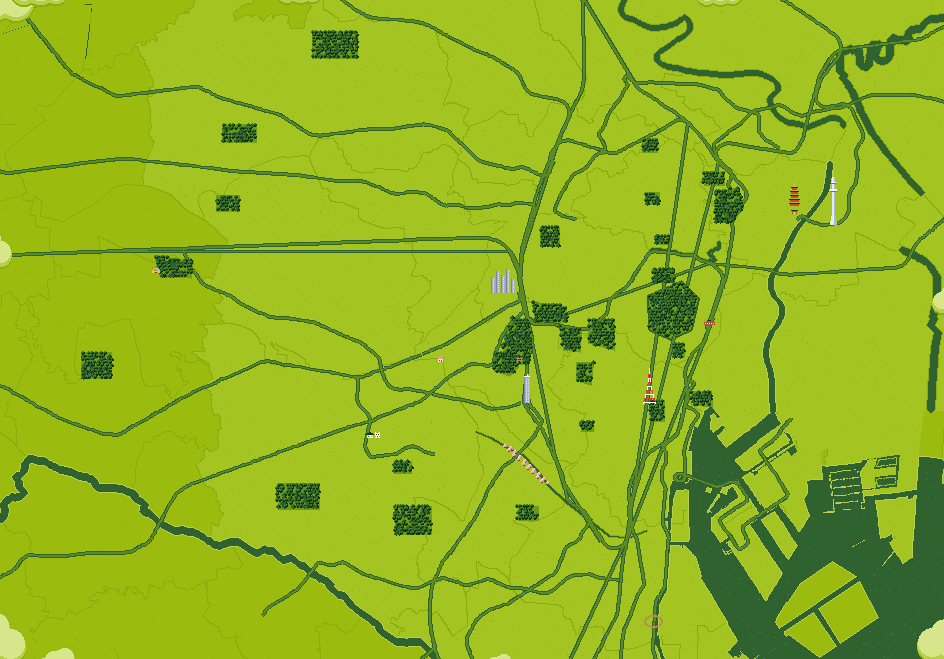
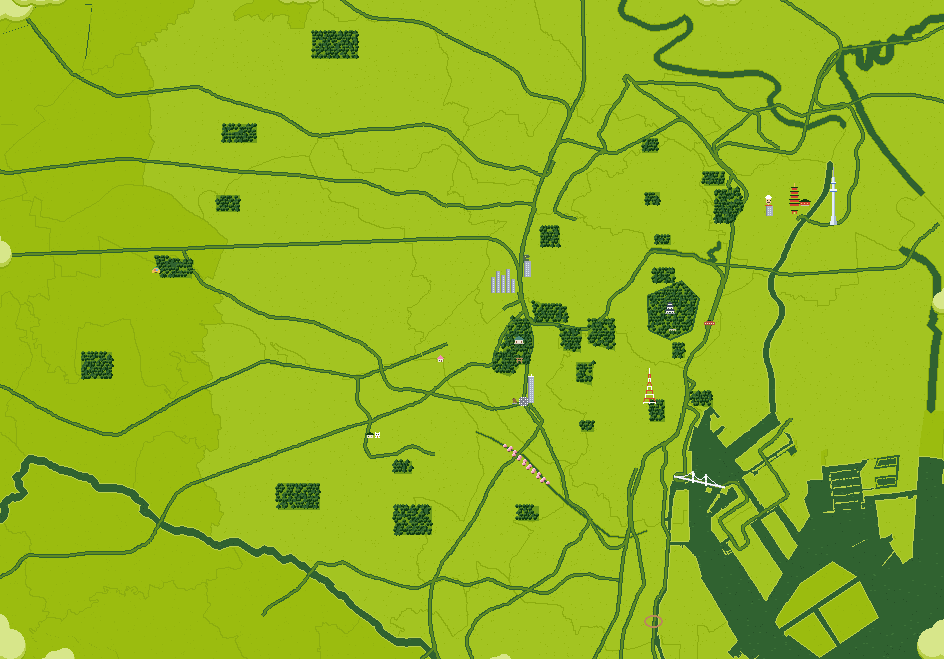
Sencha map palette (default), 8 new landmarks with zoom labels, drop fake rail connectors
Claude-Session: https://claude.ai/code/session_01MK7FJAyZNpgfsYBMr7Fsg7

diff --git a/index.html b/index.html
@@ -55,6 +55,7 @@ button{font:inherit;color:inherit;background:none;border:0;padding:0;cursor:poin
 #lbl,#pins{position:absolute;inset:0;pointer-events:none}
 .lb{position:absolute;font-size:10px;letter-spacing:1px;color:var(--fg);background:rgba(27,32,51,.72);padding:1px 4px;white-space:nowrap;transform:translate(-50%,5px)}
 .lb.mj{font-size:11px;background:rgba(27,32,51,.85)}
+.lb.lm{transform:translate(-50%,calc(-100% - 6px));color:var(--gold);background:rgba(27,32,51,.8)}.lb.lm::after{top:auto;bottom:-5px;background:var(--gold)}
 .lb::after{content:'';position:absolute;left:50%;top:-5px;width:3px;height:3px;margin-left:-1px;background:var(--fg)}
 .pin{position:absolute;left:0;top:0;width:21px;height:24px;margin:-24px 0 0 -10px;transition:none}
 .pin svg{display:block}
@@ -189,11 +190,12 @@ const CATS={coffee:{n:'coffee & tea',c:'#C08A5F',k:'珈琲'},eat:{n:'ramen & foo
   shops:{n:'shops',c:'#8FA3FF',k:'店'},shrines:{n:'shrines & temples',c:'#F3EBDD',k:'社'},sights:{n:'sights & parks',c:'#B5E06A',k:'景'}};
 SPOTS.forEach(p=>{if(p.c==='gardens')p.c='sights'});
 const LABELS=[['shinjuku',139.70038,35.69018,1],['shibuya',139.70149,35.65796,1],['ikebukuro',139.71094,35.7299,1],['ueno',139.77676,35.71351,1],['tokyo stn',139.76704,35.6813,1],['asakusa',139.797774,35.710746,1],['kichijoji',139.57984,35.70295,1],['shimokitazawa',139.66657,35.6616,1],['nakameguro',139.699116,35.64431,1],['ginza',139.765366,35.6715,1],['akihabara',139.77288,35.69824,1],['koenji',139.64955,35.70518,1],
- ['harajuku',139.70261,35.67129],['ebisu',139.70983,35.64658],['daikanyama',139.703084,35.648043],['jiyugaoka',139.668532,35.60735],['sangenjaya',139.669257,35.644148],['nishi-ogikubo',139.59928,35.70351],['nakano',139.66594,35.70573],['yoyogi-uehara',139.67968,35.66906],['hatagaya',139.6768293,35.6772317],['omotesando',139.712473,35.665042],['akasaka',139.736413,35.672104],['yotsuya',139.73038,35.6849],['ochanomizu',139.7651,35.69935],['jimbocho',139.75756,35.696021],['kuramae',139.790858,35.703128],['kiyosumi-shirakawa',139.799841,35.682119],['monzen-nakacho',139.796099,35.671892],['gotokuji',139.64735,35.65374],['mitaka',139.56067,35.70268],['nezu',139.76575,35.717325],['yanaka',139.7660,35.7262],['komagome',139.74788,35.73684],['oizumi-gakuen',139.58655,35.74952],['ningyocho',139.782339,35.686259],['shinagawa',139.73871,35.6288],['skytree',139.8107,35.7101],['meidaimae',139.65056,35.66836],['sasazuka',139.66718,35.67366],['takadanobaba',139.70371,35.71268],['kagurazaka',139.73452,35.703865],['roppongi',139.731155,35.6628],['oi racecourse',139.747055,35.595025],['tennozu',139.75084,35.62038],['futako-tamagawa',139.627213,35.612226],['kameari',139.84731,35.76629],['odaiba',139.7745,35.6290],['jindaiji',139.5504,35.6675]];
+ ['harajuku',139.70261,35.67129],['ebisu',139.70983,35.64658],['daikanyama',139.703084,35.648043],['jiyugaoka',139.668532,35.60735],['sangenjaya',139.669257,35.644148],['nishi-ogikubo',139.59928,35.70351],['nakano',139.66594,35.70573],['yoyogi-uehara',139.67968,35.66906],['hatagaya',139.6768293,35.6772317],['omotesando',139.712473,35.665042],['akasaka',139.736413,35.672104],['yotsuya',139.73038,35.6849],['ochanomizu',139.7651,35.69935],['jimbocho',139.75756,35.696021],['kuramae',139.790858,35.703128],['kiyosumi-shirakawa',139.799841,35.682119],['monzen-nakacho',139.796099,35.671892],['gotokuji',139.64735,35.65374],['mitaka',139.56067,35.70268],['nezu',139.76575,35.717325],['yanaka',139.7660,35.7262],['komagome',139.74788,35.73684],['oizumi-gakuen',139.58655,35.74952],['ningyocho',139.782339,35.686259],['shinagawa',139.73871,35.6288],['skytree',139.8107,35.7101],['meidaimae',139.65056,35.66836],['sasazuka',139.66718,35.67366],['takadanobaba',139.70371,35.71268],['kagurazaka',139.73452,35.703865],['roppongi',139.731155,35.6628],['oi racecourse',139.747055,35.595025],['tennozu',139.75084,35.62038],['futako-tamagawa',139.627213,35.612226],['kameari',139.84731,35.76629],['odaiba',139.7745,35.6290],['jindaiji',139.5504,35.6675],
+ ['hachiko + scramble',139.7005,35.6595,2,5],['godzilla head',139.7020,35.6950,2,24],['kappabashi chef',139.7880,35.7128,2,22],['meiji jingu',139.6993,35.6764,2,7],['senso-ji',139.7967,35.7148,2,27],['imperial palace',139.7528,35.6852,2,10],['rainbow bridge',139.7632,35.6360,2,11],['tokyo tower',139.7454,35.6586,2,37],['gotokuji (cat temple)',139.6474,35.6488,2,7],['ghibli museum',139.5704,35.6962,2,7]];
 
 /* ---------- state ---------- */
 const KEY='tokyoexe.v1';
-let st={map:'meadow',snd:true,cat:'all',open:false,view:'map',z:2,cx:null,cy:null,stamps:{},notes:{},custom:[],hidden:{}};
+let st={map:'sencha',snd:true,cat:'all',open:false,view:'map',z:2,cx:null,cy:null,stamps:{},notes:{},custom:[],hidden:{}};
 try{const s=JSON.parse(localStorage.getItem(KEY)||'null');if(s)st=Object.assign(st,s)}catch(e){}
 let sb=null,me=null,live=null,syState='off',syMsg='',syBusy=false,syAgain=false,syT;
 let saveT;const save=()=>{clearTimeout(saveT);saveT=setTimeout(()=>{try{localStorage.setItem(KEY,JSON.stringify(st))}catch(e){}},150);syncSoon()};
@@ -263,8 +265,8 @@ $('q').oninput=e=>{q=e.target.value;refresh()};
 
 /* ---------- map ---------- */
 const MAP=$('map'),MV=$('mv'),IMG=$('mimg'),PINS=$('pins'),LBL=$('lbl');
-const THEMES={meadow:'#4B98DD',washi:'#8EC1D6',night:'#16294D',matcha:'#9FC9C4',pocket:'#306230'};
-if(!THEMES[st.map])st.map='meadow';
+const THEMES={sencha:'#7DB4D3',meadow:'#4B98DD',washi:'#8EC1D6',night:'#16294D',matcha:'#9FC9C4',pocket:'#306230'};
+if(!THEMES[st.map]||!st.mapPicked)st.map='sencha';
 function setMap(){MAP.style.background=THEMES[st.map];IMG.src='maps/'+st.map+'.png'}
 const toM=(lat,lng)=>[(lng-PJ.LNG0)*PJ.KX,(PJ.LAT1-lat)*PJ.KY];
 const toLL=(x,y)=>({lng:PJ.LNG0+x/PJ.KX,lat:PJ.LAT1-y/PJ.KY});
@@ -277,7 +279,7 @@ function pinSvg(c,stamped){return `<svg width="21" height="24" viewBox="0 0 7 8"
 function buildPins(){vis=visible();PINS.innerHTML='';
   pinEls=vis.map(p=>{const [mx,my]=toM(p.lat,p.lng);const e=document.createElement('div');e.className='pin';e.innerHTML=pinSvg((CATS[p.c]||CATS.sights).c,!!st.stamps[p.id]);PINS.appendChild(e);return{p,mx,my,e}});
   const [hx,hy]=toM(HOME.lat,HOME.lng);homeEl={mx:hx,my:hy};
-  LBL.innerHTML=LABELS.map(l=>`<div class="lb${l[3]?' mj':''}">${l[0]}</div>`).join('')+'<div class="lb mj" style="background:#F28FB0;color:#1B2033">home</div>'+'<div class="you" id="youd" hidden></div>';
+  LBL.innerHTML=LABELS.map(l=>`<div class="lb${l[3]===2?' lm':l[3]?' mj':''}">${l[0]}</div>`).join('')+'<div class="lb mj" style="background:#F28FB0;color:#1B2033">home</div>'+'<div class="you" id="youd" hidden></div>';
   draw()}
 let homeEl=null;
 function draw(){cancelAnimationFrame(raf);raf=requestAnimationFrame(()=>{
@@ -286,7 +288,7 @@ function draw(){cancelAnimationFrame(raf);raf=requestAnimationFrame(()=>{
   pinEls.forEach(o=>{const x=tx+o.mx*s,y=ty+o.my*s,on=x>-40&&x<w+40&&y>-40&&y<h+60;o.e.style.display=on?'':'none';if(!on)return;
     o.e.style.transform=`translate3d(${x}px,${y}px,0)`;const isSel=sel&&o.p.id===sel.id;o.e.className='pin'+(isSel?' sel':small?' sm':'');
     if(isSel&&!o.e.querySelector('.ptag'))o.e.insertAdjacentHTML('beforeend',`<div class="ptag">${esc(o.p.n)}</div>`);if(!isSel){const t=o.e.querySelector('.ptag');if(t)t.remove()}});
-  const L=LBL.children;LABELS.forEach((l,i)=>{const [mx,my]=toM(l[2],l[1]);const x=tx+mx*s,y=ty+my*s;const show=(l[3]||s>=1.9)&&x>-60&&x<w+60&&y>-20&&y<h+20;L[i].style.display=show?'':'none';if(show){L[i].style.left=x+'px';L[i].style.top=y+'px'}});
+  const L=LBL.children;LABELS.forEach((l,i)=>{const [mx,my]=toM(l[2],l[1]);const lm=l[3]===2,x=tx+mx*s,y=ty+my*s-(lm?l[4]*s:0);const show=(lm?s>=3:(l[3]||s>=1.9))&&x>-60&&x<w+60&&y>-20&&y<h+40;L[i].style.display=show?'':'none';if(show){L[i].style.left=x+'px';L[i].style.top=y+'px'}});
   const hl=L[LABELS.length];hl.style.left=(tx+homeEl.mx*s)+'px';hl.style.top=(ty+homeEl.my*s)+'px';
   const yd=$('youd');if(you){const [mx,my]=toM(you.lat,you.lng);yd.hidden=false;yd.style.left=(tx+mx*s)+'px';yd.style.top=(ty+my*s)+'px'}else yd.hidden=true})}
 function zoomAt(ns,px,py){ns=Math.max(1,Math.min(6,ns));const mx=(px-tx)/s,my=(py-ty)/s;s=ns;tx=px-mx*s;ty=py-my*s;clamp();st.z=s;draw()}
@@ -378,7 +380,7 @@ function stampBook(){sfx('open');const all=allSpots(),done=all.filter(p=>st.stam
     ${done.length?`<div class="sgrid">${done.map((p,i)=>{const c=CATS[p.c]||CATS.sights;return `<button class="stamp" data-i="${i}"><div class="ring" style="border-color:${c.c};color:${c.c};transform:rotate(${(i*37%15)-7}deg)">${c.k}<small>${dlong(st.stamps[p.id]).replace(/^\w+ /,'')}</small></div><span>${esc(p.n)}</span></button>`}).join('')}</div>`:`<div class="dt empty">no stamps yet<br>open a spot and tap “stamp”<br>when you’ve been</div>`}
     <div class="row2" style="margin-top:24px"><button class="dt" id="snd">sound · ${st.snd?'on':'off'}</button><button class="dt" id="mapb">map · ${st.map}</button><button class="dt" id="syb">sync · ${me?'on':'off'}</button></div>`);
   sh.querySelectorAll('.stamp').forEach(b=>b.onclick=()=>{const p=done[+b.dataset.i];shut();setTimeout(()=>{if(st.view!=='map'){st.view='map';refresh()}select(p,true);spotSheet(p)},250)});
-  $('mapb').onclick=()=>{const k=Object.keys(THEMES);st.map=k[(k.indexOf(st.map)+1)%k.length];save();setMap();$('mapb').textContent='map · '+st.map;sfx('tap')};
+  $('mapb').onclick=()=>{const k=Object.keys(THEMES);st.map=k[(k.indexOf(st.map)+1)%k.length];st.mapPicked=1;save();setMap();$('mapb').textContent='map · '+st.map;sfx('tap')};
   $('snd').onclick=()=>{st.snd=!st.snd;save();$('snd').textContent='sound · '+(st.snd?'on':'off');sfx('tap')};$('syb').onclick=syncSheet}
 $('bstamp').onclick=stampBook;
 function longPress(x,y){const mx=(x-MAP.getBoundingClientRect().left-tx)/s,my=(y-MAP.getBoundingClientRect().top-ty)/s;if(mx<0||my<0||mx>PJ.W||my>PJ.H)return;const ll=toLL(mx,my);sfx('pop');

diff --git a/src/app.html b/src/app.html
@@ -45,6 +45,7 @@ button{font:inherit;color:inherit;background:none;border:0;padding:0;cursor:poin
 #lbl,#pins{position:absolute;inset:0;pointer-events:none}
 .lb{position:absolute;font-size:10px;letter-spacing:1px;color:var(--fg);background:rgba(27,32,51,.72);padding:1px 4px;white-space:nowrap;transform:translate(-50%,5px)}
 .lb.mj{font-size:11px;background:rgba(27,32,51,.85)}
+.lb.lm{transform:translate(-50%,calc(-100% - 6px));color:var(--gold);background:rgba(27,32,51,.8)}.lb.lm::after{top:auto;bottom:-5px;background:var(--gold)}
 .lb::after{content:'';position:absolute;left:50%;top:-5px;width:3px;height:3px;margin-left:-1px;background:var(--fg)}
 .pin{position:absolute;left:0;top:0;width:21px;height:24px;margin:-24px 0 0 -10px;transition:none}
 .pin svg{display:block}
@@ -179,11 +180,12 @@ const CATS={coffee:{n:'coffee & tea',c:'#C08A5F',k:'珈琲'},eat:{n:'ramen & foo
   shops:{n:'shops',c:'#8FA3FF',k:'店'},shrines:{n:'shrines & temples',c:'#F3EBDD',k:'社'},sights:{n:'sights & parks',c:'#B5E06A',k:'景'}};
 SPOTS.forEach(p=>{if(p.c==='gardens')p.c='sights'});
 const LABELS=[['shinjuku',139.70038,35.69018,1],['shibuya',139.70149,35.65796,1],['ikebukuro',139.71094,35.7299,1],['ueno',139.77676,35.71351,1],['tokyo stn',139.76704,35.6813,1],['asakusa',139.797774,35.710746,1],['kichijoji',139.57984,35.70295,1],['shimokitazawa',139.66657,35.6616,1],['nakameguro',139.699116,35.64431,1],['ginza',139.765366,35.6715,1],['akihabara',139.77288,35.69824,1],['koenji',139.64955,35.70518,1],
- ['harajuku',139.70261,35.67129],['ebisu',139.70983,35.64658],['daikanyama',139.703084,35.648043],['jiyugaoka',139.668532,35.60735],['sangenjaya',139.669257,35.644148],['nishi-ogikubo',139.59928,35.70351],['nakano',139.66594,35.70573],['yoyogi-uehara',139.67968,35.66906],['hatagaya',139.6768293,35.6772317],['omotesando',139.712473,35.665042],['akasaka',139.736413,35.672104],['yotsuya',139.73038,35.6849],['ochanomizu',139.7651,35.69935],['jimbocho',139.75756,35.696021],['kuramae',139.790858,35.703128],['kiyosumi-shirakawa',139.799841,35.682119],['monzen-nakacho',139.796099,35.671892],['gotokuji',139.64735,35.65374],['mitaka',139.56067,35.70268],['nezu',139.76575,35.717325],['yanaka',139.7660,35.7262],['komagome',139.74788,35.73684],['oizumi-gakuen',139.58655,35.74952],['ningyocho',139.782339,35.686259],['shinagawa',139.73871,35.6288],['skytree',139.8107,35.7101],['meidaimae',139.65056,35.66836],['sasazuka',139.66718,35.67366],['takadanobaba',139.70371,35.71268],['kagurazaka',139.73452,35.703865],['roppongi',139.731155,35.6628],['oi racecourse',139.747055,35.595025],['tennozu',139.75084,35.62038],['futako-tamagawa',139.627213,35.612226],['kameari',139.84731,35.76629],['odaiba',139.7745,35.6290],['jindaiji',139.5504,35.6675]];
+ ['harajuku',139.70261,35.67129],['ebisu',139.70983,35.64658],['daikanyama',139.703084,35.648043],['jiyugaoka',139.668532,35.60735],['sangenjaya',139.669257,35.644148],['nishi-ogikubo',139.59928,35.70351],['nakano',139.66594,35.70573],['yoyogi-uehara',139.67968,35.66906],['hatagaya',139.6768293,35.6772317],['omotesando',139.712473,35.665042],['akasaka',139.736413,35.672104],['yotsuya',139.73038,35.6849],['ochanomizu',139.7651,35.69935],['jimbocho',139.75756,35.696021],['kuramae',139.790858,35.703128],['kiyosumi-shirakawa',139.799841,35.682119],['monzen-nakacho',139.796099,35.671892],['gotokuji',139.64735,35.65374],['mitaka',139.56067,35.70268],['nezu',139.76575,35.717325],['yanaka',139.7660,35.7262],['komagome',139.74788,35.73684],['oizumi-gakuen',139.58655,35.74952],['ningyocho',139.782339,35.686259],['shinagawa',139.73871,35.6288],['skytree',139.8107,35.7101],['meidaimae',139.65056,35.66836],['sasazuka',139.66718,35.67366],['takadanobaba',139.70371,35.71268],['kagurazaka',139.73452,35.703865],['roppongi',139.731155,35.6628],['oi racecourse',139.747055,35.595025],['tennozu',139.75084,35.62038],['futako-tamagawa',139.627213,35.612226],['kameari',139.84731,35.76629],['odaiba',139.7745,35.6290],['jindaiji',139.5504,35.6675],
+ ['hachiko + scramble',139.7005,35.6595,2,5],['godzilla head',139.7020,35.6950,2,24],['kappabashi chef',139.7880,35.7128,2,22],['meiji jingu',139.6993,35.6764,2,7],['senso-ji',139.7967,35.7148,2,27],['imperial palace',139.7528,35.6852,2,10],['rainbow bridge',139.7632,35.6360,2,11],['tokyo tower',139.7454,35.6586,2,37],['gotokuji (cat temple)',139.6474,35.6488,2,7],['ghibli museum',139.5704,35.6962,2,7]];
 
 /* ---------- state ---------- */
 const KEY='tokyoexe.v1';
-let st={map:'meadow',snd:true,cat:'all',open:false,view:'map',z:2,cx:null,cy:null,stamps:{},notes:{},custom:[],hidden:{}};
+let st={map:'sencha',snd:true,cat:'all',open:false,view:'map',z:2,cx:null,cy:null,stamps:{},notes:{},custom:[],hidden:{}};
 try{const s=JSON.parse(localStorage.getItem(KEY)||'null');if(s)st=Object.assign(st,s)}catch(e){}
 let sb=null,me=null,live=null,syState='off',syMsg='',syBusy=false,syAgain=false,syT;
 let saveT;const save=()=>{clearTimeout(saveT);saveT=setTimeout(()=>{try{localStorage.setItem(KEY,JSON.stringify(st))}catch(e){}},150);syncSoon()};
@@ -253,8 +255,8 @@ $('q').oninput=e=>{q=e.target.value;refresh()};
 
 /* ---------- map ---------- */
 const MAP=$('map'),MV=$('mv'),IMG=$('mimg'),PINS=$('pins'),LBL=$('lbl');
-const THEMES={meadow:'#4B98DD',washi:'#8EC1D6',night:'#16294D',matcha:'#9FC9C4',pocket:'#306230'};
-if(!THEMES[st.map])st.map='meadow';
+const THEMES={sencha:'#7DB4D3',meadow:'#4B98DD',washi:'#8EC1D6',night:'#16294D',matcha:'#9FC9C4',pocket:'#306230'};
+if(!THEMES[st.map]||!st.mapPicked)st.map='sencha';
 function setMap(){MAP.style.background=THEMES[st.map];IMG.src='maps/'+st.map+'.png'}
 const toM=(lat,lng)=>[(lng-PJ.LNG0)*PJ.KX,(PJ.LAT1-lat)*PJ.KY];
 const toLL=(x,y)=>({lng:PJ.LNG0+x/PJ.KX,lat:PJ.LAT1-y/PJ.KY});
@@ -267,7 +269,7 @@ function pinSvg(c,stamped){return `<svg width="21" height="24" viewBox="0 0 7 8"
 function buildPins(){vis=visible();PINS.innerHTML='';
   pinEls=vis.map(p=>{const [mx,my]=toM(p.lat,p.lng);const e=document.createElement('div');e.className='pin';e.innerHTML=pinSvg((CATS[p.c]||CATS.sights).c,!!st.stamps[p.id]);PINS.appendChild(e);return{p,mx,my,e}});
   const [hx,hy]=toM(HOME.lat,HOME.lng);homeEl={mx:hx,my:hy};
-  LBL.innerHTML=LABELS.map(l=>`<div class="lb${l[3]?' mj':''}">${l[0]}</div>`).join('')+'<div class="lb mj" style="background:#F28FB0;color:#1B2033">home</div>'+'<div class="you" id="youd" hidden></div>';
+  LBL.innerHTML=LABELS.map(l=>`<div class="lb${l[3]===2?' lm':l[3]?' mj':''}">${l[0]}</div>`).join('')+'<div class="lb mj" style="background:#F28FB0;color:#1B2033">home</div>'+'<div class="you" id="youd" hidden></div>';
   draw()}
 let homeEl=null;
 function draw(){cancelAnimationFrame(raf);raf=requestAnimationFrame(()=>{
@@ -276,7 +278,7 @@ function draw(){cancelAnimationFrame(raf);raf=requestAnimationFrame(()=>{
   pinEls.forEach(o=>{const x=tx+o.mx*s,y=ty+o.my*s,on=x>-40&&x<w+40&&y>-40&&y<h+60;o.e.style.display=on?'':'none';if(!on)return;
     o.e.style.transform=`translate3d(${x}px,${y}px,0)`;const isSel=sel&&o.p.id===sel.id;o.e.className='pin'+(isSel?' sel':small?' sm':'');
     if(isSel&&!o.e.querySelector('.ptag'))o.e.insertAdjacentHTML('beforeend',`<div class="ptag">${esc(o.p.n)}</div>`);if(!isSel){const t=o.e.querySelector('.ptag');if(t)t.remove()}});
-  const L=LBL.children;LABELS.forEach((l,i)=>{const [mx,my]=toM(l[2],l[1]);const x=tx+mx*s,y=ty+my*s;const show=(l[3]||s>=1.9)&&x>-60&&x<w+60&&y>-20&&y<h+20;L[i].style.display=show?'':'none';if(show){L[i].style.left=x+'px';L[i].style.top=y+'px'}});
+  const L=LBL.children;LABELS.forEach((l,i)=>{const [mx,my]=toM(l[2],l[1]);const lm=l[3]===2,x=tx+mx*s,y=ty+my*s-(lm?l[4]*s:0);const show=(lm?s>=3:(l[3]||s>=1.9))&&x>-60&&x<w+60&&y>-20&&y<h+40;L[i].style.display=show?'':'none';if(show){L[i].style.left=x+'px';L[i].style.top=y+'px'}});
   const hl=L[LABELS.length];hl.style.left=(tx+homeEl.mx*s)+'px';hl.style.top=(ty+homeEl.my*s)+'px';
   const yd=$('youd');if(you){const [mx,my]=toM(you.lat,you.lng);yd.hidden=false;yd.style.left=(tx+mx*s)+'px';yd.style.top=(ty+my*s)+'px'}else yd.hidden=true})}
 function zoomAt(ns,px,py){ns=Math.max(1,Math.min(6,ns));const mx=(px-tx)/s,my=(py-ty)/s;s=ns;tx=px-mx*s;ty=py-my*s;clamp();st.z=s;draw()}
@@ -368,7 +370,7 @@ function stampBook(){sfx('open');const all=allSpots(),done=all.filter(p=>st.stam
     ${done.length?`<div class="sgrid">${done.map((p,i)=>{const c=CATS[p.c]||CATS.sights;return `<button class="stamp" data-i="${i}"><div class="ring" style="border-color:${c.c};color:${c.c};transform:rotate(${(i*37%15)-7}deg)">${c.k}<small>${dlong(st.stamps[p.id]).replace(/^\w+ /,'')}</small></div><span>${esc(p.n)}</span></button>`}).join('')}</div>`:`<div class="dt empty">no stamps yet<br>open a spot and tap “stamp”<br>when you’ve been</div>`}
     <div class="row2" style="margin-top:24px"><button class="dt" id="snd">sound · ${st.snd?'on':'off'}</button><button class="dt" id="mapb">map · ${st.map}</button><button class="dt" id="syb">sync · ${me?'on':'off'}</button></div>`);
   sh.querySelectorAll('.stamp').forEach(b=>b.onclick=()=>{const p=done[+b.dataset.i];shut();setTimeout(()=>{if(st.view!=='map'){st.view='map';refresh()}select(p,true);spotSheet(p)},250)});
-  $('mapb').onclick=()=>{const k=Object.keys(THEMES);st.map=k[(k.indexOf(st.map)+1)%k.length];save();setMap();$('mapb').textContent='map · '+st.map;sfx('tap')};
+  $('mapb').onclick=()=>{const k=Object.keys(THEMES);st.map=k[(k.indexOf(st.map)+1)%k.length];st.mapPicked=1;save();setMap();$('mapb').textContent='map · '+st.map;sfx('tap')};
   $('snd').onclick=()=>{st.snd=!st.snd;save();$('snd').textContent='sound · '+(st.snd?'on':'off');sfx('tap')};$('syb').onclick=syncSheet}
 $('bstamp').onclick=stampBook;
 function longPress(x,y){const mx=(x-MAP.getBoundingClientRect().left-tx)/s,my=(y-MAP.getBoundingClientRect().top-ty)/s;if(mx<0||my<0||mx>PJ.W||my>PJ.H)return;const ll=toLL(mx,my);sfx('pop');

diff --git a/sw.js b/sw.js
@@ -1,5 +1,5 @@
-const V='tokyoexe-v2';
-const CORE=['./','./index.html','./manifest.webmanifest','./maps/meadow.png','./fonts/dotgothic16.woff2','./icons/icon-180.png','./icons/icon-192.png','./icons/icon-512.png','./vendor/supabase.js'];
+const V='tokyoexe-v3';
+const CORE=['./','./index.html','./manifest.webmanifest','./maps/sencha.png','./fonts/dotgothic16.woff2','./icons/icon-180.png','./icons/icon-192.png','./icons/icon-512.png','./vendor/supabase.js'];
 self.addEventListener('install',e=>{e.waitUntil(caches.open(V).then(c=>c.addAll(CORE)).then(()=>self.skipWaiting()))});
 self.addEventListener('activate',e=>{e.waitUntil(caches.keys().then(ks=>Promise.all(ks.filter(k=>k!==V).map(k=>caches.delete(k)))).then(()=>self.clients.claim()))});
 self.addEventListener('fetch',e=>{const r=e.request;if(r.method!=='GET')return;const u=new URL(r.url);if(u.origin!==location.origin)return;
